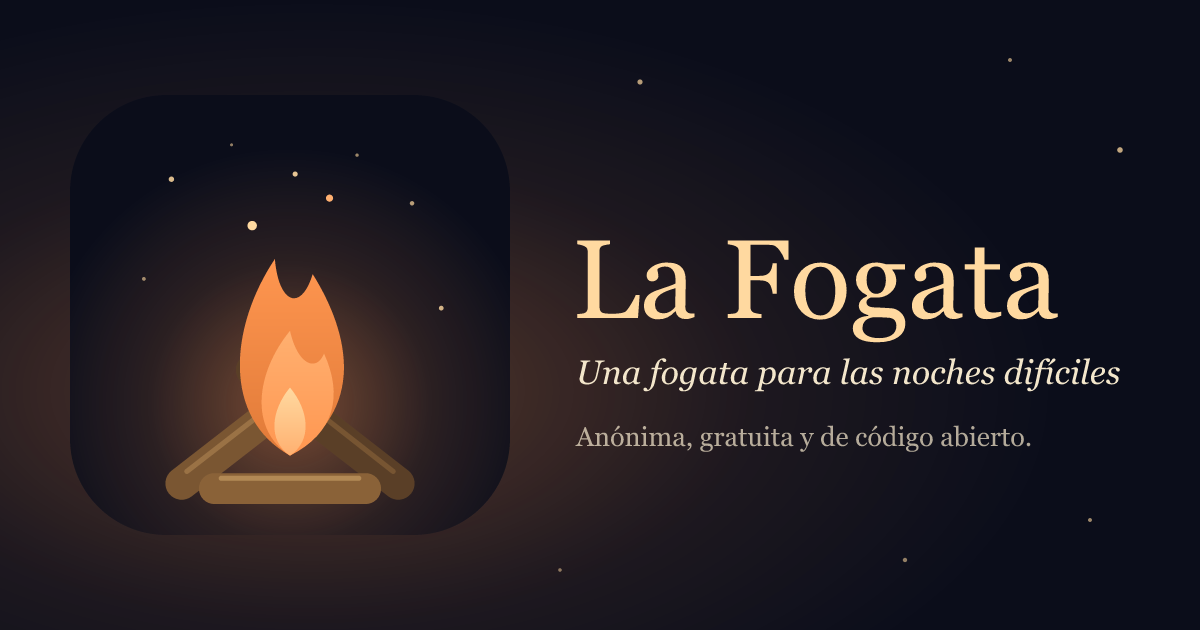
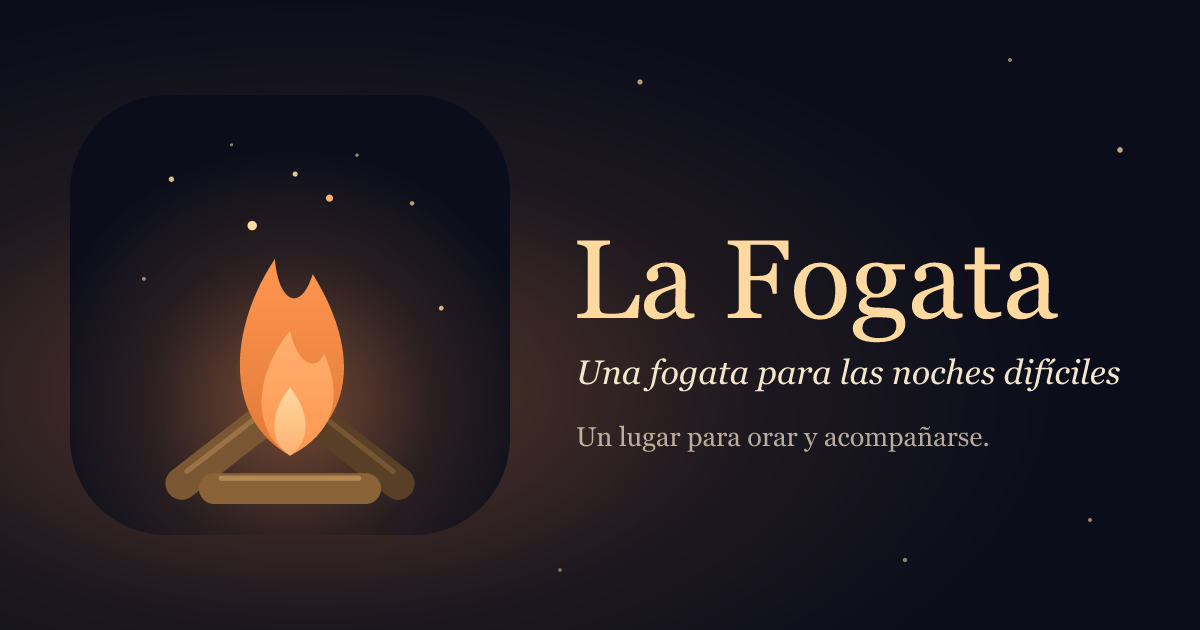
feat: say plainly that La Fogata is a place to pray and to keep company (#46)
The rule that kept the purpose unspoken is dropped: the tutorial, the README,
the descriptions and the picture shown when the link is shared now say what La
Fogata is for. It is a place to pray, for your petitions or for others', or
simply to be present: to accompany, to be here, to take heart from other
people's petitions and from the answers they receive. Praying is an
invitation, never a requirement, and everyone is welcome whatever they
believe. The symbols (the three logs and the rest) stay unexplained.

- tutorial: opens with the purpose and a welcome to all, and speaks of prayer
  where it happens (the burden as a prayer let go, the petition as your
  prayer, praying for the stars still waiting, the fish as a prayer for
  someone); the distant fires move to the step on wood
- README (es, en), the site's description and the shared-link picture, and the
  first section of the terms say it too
- CLAUDE.md (Vision) and the vision-guardian agent follow: say it clearly,
  never preach, never explain the symbols; the tutorial's tests now guard that
  it says it, that it invites and never demands, and that nothing is explained

Changed region(s): [[0.4625, 0.6635, 0.8633, 0.7238]]

diff --git a/apps/web/src/i18n/es.ts b/apps/web/src/i18n/es.ts
@@ -3,7 +3,7 @@ export const es = {
   meta: {
     title: "La Fogata",
     description:
-      "Una fogata anónima y gratuita para las noches difíciles. Echa leña, entrega lo que te pesa y deja una petición que se vuelve estrella. Sin chat, sin perfiles.",
+      "Una fogata anónima y gratuita para orar y acompañarse en las noches difíciles. Echa leña, entrega lo que te pesa y deja una petición que se vuelve estrella. Sin chat, sin perfiles.",
   },
   scene: {
     ariaLabel: "Una fogata de noche con personas sentadas alrededor.",
@@ -215,31 +215,31 @@ export const es = {
     steps: {
       forest: {
         title: "¡Bienvenidos!",
-        body: "Esto es un fuego en el bosque, de noche. Aquí no se habla: se acompaña. Quienes se sientan contigo son personajes, sin nombre ni rostro. Y si ves otra fogata brillando a lo lejos entre los árboles, es porque hay más personas en el bosque.",
+        body: "La Fogata es un lugar para orar y para acompañarse. Entra a orar por tus peticiones, o simplemente quédate: estar presente, acompañar y animarte con lo que otros piden y con las respuestas que reciben también es parte de esto. Todos son bienvenidos, creas lo que creas.",
       },
       wood: {
         title: "Echa leña",
-        body: "Toca el botón del centro y tu personaje lanza un tronco. El fuego crece, se va apagando solo, y todos los que están contigo ven cuando alguien echa leña.",
+        body: "Toca el botón del centro y tu personaje lanza un tronco: es tu manera de decir «aquí estoy». El fuego crece y se va apagando solo, y todos los que están contigo lo ven. Si ves otra fogata brillando a lo lejos entre los árboles, es porque hay más personas en el bosque.",
       },
       burden: {
         title: "Entrega una carga",
-        body: "Escribe lo que te pesa y entrégaselo al fuego: se quema. Lo que escribes nunca sale de tu navegador, ni se envía ni se guarda. Los demás ven a tu personaje llevarla a las brasas, pero nunca lo que dice.",
+        body: "Escribe lo que te pesa y entrégaselo al fuego, como una oración que se suelta: se quema. Lo que escribes nunca sale de tu navegador, ni se envía ni se guarda. Los demás ven a tu personaje llevarla a las brasas, pero nunca lo que dice.",
       },
       petition: {
         title: "Deja una petición",
-        body: "Cuéntale al cielo lo que esperas: tu petición sube con el humo y se vuelve una estrella. Puedes dejar todas las que quieras.",
+        body: "Cuéntale al cielo lo que esperas: tu petición sube con el humo y se vuelve una estrella. Es tu oración, a la vista de quienes pasan por la fogata y sin tu nombre. Puedes dejar todas las que quieras.",
       },
       sky: {
         title: "Tu cielo",
-        body: "El cielo está hecho de las peticiones de todas las personas que han pasado por la fogata. Las estrellas que titilan son peticiones ya respondidas: están ahí para darte ánimo. Las que brillan quietas todavía esperan una respuesta.",
+        body: "El cielo está hecho de las peticiones de todas las personas que han pasado por la fogata. Las estrellas que titilan son peticiones ya respondidas: están ahí para darte ánimo y recordarte que vale la pena esperar. Las que brillan quietas todavía esperan una respuesta: puedes orar por ellas.",
       },
       answered: {
         title: "Cuando se cumple",
-        body: "Si lo que pediste se cumple, vuelve, toca tu estrella y márcala como respondida. Cuenta cómo ocurrió.",
+        body: "Si lo que pediste se cumple, vuelve, toca tu estrella y márcala como respondida. Cuenta cómo ocurrió: tu historia anima a quien aún espera.",
       },
       company: {
-        title: "Acompaña a otros",
-        body: "Toca la estrella de otra persona y luego el pez: le haces saber que estás con ella, sin que sepa quién eres. Si algo no debería estar ahí, la banderita sirve para avisar.",
+        title: "Ora y acompaña",
+        body: "Toca la estrella de otra persona y luego el pez: es tu oración por ella, y le haces saber que alguien está con ella, sin que sepa quién eres. Si algo no debería estar ahí, la banderita sirve para avisar.",
       },
       word: {
         title: "Y unas palabras",
@@ -252,7 +252,7 @@ export const es = {
     intro: "Son pocas reglas, escritas claras. Léelas con calma.",
     company: {
       heading: "Compañía, no ayuda profesional",
-      body: "La Fogata te acompaña, pero no es terapia, ni atención médica, ni un servicio de emergencia, y no reemplaza la ayuda profesional. Si estás en peligro o piensas en hacerte daño, busca ayuda ahora mismo.",
+      body: "La Fogata es un lugar para orar y acompañarse, pero no es terapia, ni atención médica, ni un servicio de emergencia, y no reemplaza la ayuda profesional. Si estás en peligro o piensas en hacerte daño, busca ayuda ahora mismo.",
     },
     age: {
       heading: "Edad",

diff --git a/apps/web/src/i18n/en.ts b/apps/web/src/i18n/en.ts
@@ -5,7 +5,7 @@ export const en = {
   meta: {
     title: "La Fogata",
     description:
-      "A free, anonymous campfire for hard nights. Throw wood, hand over what weighs on you, and leave an ask that becomes a star. No chat, no profiles.",
+      "A free, anonymous campfire to pray and keep company on hard nights. Throw wood, hand over what weighs on you, and leave an ask that becomes a star. No chat, no profiles.",
   },
   scene: {
     ariaLabel: "A campfire at night, with people sitting around it.",
@@ -205,31 +205,31 @@ export const en = {
     steps: {
       forest: {
         title: "Welcome!",
-        body: "This is a fire in the woods, at night. Nobody talks here: you keep each other company. The people who sit with you are characters, with no name or face. And if you see another campfire glowing far off between the trees, it means there are more people in the woods.",
+        body: "La Fogata is a place to pray and to keep company. Come in to pray for your asks, or simply stay: being present, keeping company and taking heart from what others ask and the answers they receive is part of this too. Everyone is welcome, whatever you believe.",
       },
       wood: {
         title: "Throw wood",
-        body: "Tap the button in the middle and your character throws a log. The fire grows and slowly dies down on its own, and everyone sitting with you sees when someone throws wood.",
+        body: "Tap the button in the middle and your character throws a log: your way of saying “I'm here”. The fire grows and slowly dies down on its own, and everyone sitting with you sees it. If you see another campfire glowing far off between the trees, it means there are more people in the woods.",
       },
       burden: {
         title: "Hand over a burden",
-        body: "Write what weighs on you and hand it to the fire: it burns. What you write never leaves your browser: it isn't sent or stored. The others see your character carry it to the embers, but never what it says.",
+        body: "Write what weighs on you and hand it to the fire, like a prayer you let go of: it burns. What you write never leaves your browser: it isn't sent or stored. The others see your character carry it to the embers, but never what it says.",
       },
       petition: {
         title: "Leave an ask",
-        body: "Tell the sky what you hope for: your ask rises with the smoke and becomes a star. Leave as many as you like.",
+        body: "Tell the sky what you hope for: your ask rises with the smoke and becomes a star. It is your prayer, in view of everyone who passes by the fire, and with no name. Leave as many as you like.",
       },
       sky: {
         title: "Your sky",
-        body: "The sky is made of the asks of everyone who has been by the fire. The stars that twinkle are asks that have been answered: they are there to cheer you on. The ones that shine steady are still waiting for an answer.",
+        body: "The sky is made of the asks of everyone who has been by the fire. The stars that twinkle are asks that have been answered: they are there to cheer you on and remind you that it is worth waiting. The ones that shine steady are still waiting for an answer: you can pray for them.",
       },
       answered: {
         title: "When it comes true",
-        body: "If what you asked for comes true, come back, tap your star and mark it as answered. Tell how it happened.",
+        body: "If what you asked for comes true, come back, tap your star and mark it as answered. Tell how it happened: your story encourages someone who is still waiting.",
       },
       company: {
-        title: "Keep others company",
-        body: "Tap someone else's star, then the fish: you let them know you are with them, without them knowing who you are. If something shouldn't be there, the little flag lets you say so.",
+        title: "Pray and keep company",
+        body: "Tap someone else's star, then the fish: it is your prayer for them, and it lets them know someone is with them, without them knowing who you are. If something shouldn't be there, the little flag lets you say so.",
       },
       word: {
         title: "And a few words",
@@ -242,7 +242,7 @@ export const en = {
     intro: "There are only a few rules, written plainly. Take your time.",
     company: {
       heading: "Company, not professional help",
-      body: "La Fogata keeps you company, but it isn't therapy, medical care or an emergency service, and it doesn't replace professional help. If you're in danger or thinking of hurting yourself, please reach out for help right now.",
+      body: "La Fogata is a place to pray and keep company, but it isn't therapy, medical care or an emergency service, and it doesn't replace professional help. If you're in danger or thinking of hurting yourself, please reach out for help right now.",
     },
     age: {
       heading: "Age",

diff --git a/apps/web/src/tutorial/tutorial.test.ts b/apps/web/src/tutorial/tutorial.test.ts
@@ -100,14 +100,50 @@ describe("what the tutorial says", () => {
     expect(text(messages)).not.toMatch(/30|al día|por día|a day|per day|each day|expir|caduc/i);
   });
 
-  // The product is never explicit about where it comes from, and never preaches: the words stay neutral.
+  // La Fogata is a place to pray and to keep company, and the tutorial says so plainly, at the very start.
   it.each([
     ["es", es],
     ["en", en],
-  ])("uses no religious vocabulary in %s", (_language, messages) => {
+  ])(
+    "opens by saying it is a place to pray and to keep company, and that all are welcome, in %s",
+    (_language, messages) => {
+      const welcome = messages.tutorial.steps.forest.body;
+      expect(welcome).toMatch(/orar|pray/i);
+      expect(welcome).toMatch(/acompa[ñn]arse|keep company/i);
+      expect(welcome).toMatch(/presente|present/i);
+      expect(welcome).toMatch(/creas lo que creas|whatever you believe/i);
+    },
+  );
+
+  it.each([
+    ["es", es],
+    ["en", en],
+  ])(
+    "speaks of prayer where it happens: the burden, the petition, the sky and the fish, in %s",
+    (_language, messages) => {
+      for (const step of ["burden", "petition", "sky", "company"] as const) {
+        expect(messages.tutorial.steps[step].body, step).toMatch(/oraci[oó]n|orar|\bora\b|pray/i);
+      }
+    },
+  );
+
+  // Praying is an invitation, never a requirement: being present is enough, and nothing preaches or pressures.
+  it.each([
+    ["es", es],
+    ["en", en],
+  ])("invites and never preaches or demands, in %s", (_language, messages) => {
+    expect(messages.tutorial.steps.forest.body).toMatch(/simplemente|simply/i);
     expect(text(messages)).not.toMatch(
-      /\b(orar|oraci[oó]n|rezar|ruega|dios|se[ñn]or|jes[uú]s|cristo|trinidad|b[ií]blic|santo|pray|prayer|god|lord|jesus|christ|trinity|bible|holy)\b/i,
+      /\b(debes|tienes que|deber[ií]as|est[aá]s obligad|must|you have to|you should|have to)\b/i,
     );
+  });
+
+  // The symbols are never explained.
+  it.each([
+    ["es", es],
+    ["en", en],
+  ])("does not explain the symbols (the three logs, the Trinity), in %s", (_language, messages) => {
+    expect(text(messages)).not.toMatch(/trinidad|tres troncos|three logs|trinity/i);
   });
 
   it.each([

diff --git a/CLAUDE.md b/CLAUDE.md
@@ -1,6 +1,6 @@
 # La Fogata
 
-A nocturnal, anonymous web space where people sit around a campfire in real time. It is not a chat: people throw wood, hand over what weighs on them, and leave petitions that become stars. Built to keep people company on hard nights.
+A nocturnal, anonymous web space where people sit around a campfire in real time. It is not a chat: people throw wood, hand over what weighs on them, and leave petitions that become stars. Built to keep people company on hard nights, and to be a place to pray.
 
 Visual and interaction reference: `docs/prototype/la-fogata.html` (open it in a browser). Match its look and feel.
 
@@ -18,13 +18,17 @@ This file holds the core rules. Area guidance loads on demand from `.claude/rule
   - A petition rises from the fire and becomes a star in one shared sky: up to 2000 characters (a letter; a burden up to 3000, an answer up to 2000), dated with the day it was written and the day it was answered (only the day), moderated before it is shown. There is no limit on how many a person may leave and they do not expire: a star stays until its author returns it to the fire. Ownership is a secret key kept in the browser; no accounts.
   - Other people's stars show no author information, ever. The ichthys is the only response (one counter, no likes, no ranking).
 - Touch the fire for a short verse (TLA es / WEB en, curated list in `apps/web/src/fire/words.ts`). Only the words show, with no number; tapping the words shows where they come from.
-- The first time, after accepting the terms, a short tutorial (`components/tutorial/`, `tutorial/tutorial.ts`) says what La Fogata is and what can be done in it, one step at a time with a small drawing of each; it can be skipped, is remembered (`fogata:tutorial`), and can be opened again from the settings. It stays neutral: no religious vocabulary, no promise of rules that do not exist (a test guards both).
+- The first time, after accepting the terms, a short tutorial (`components/tutorial/`, `tutorial/tutorial.ts`) says what La Fogata is and what can be done in it, one step at a time with a small drawing of each; it can be skipped, is remembered (`fogata:tutorial`), and can be opened again from the settings. It says plainly that La Fogata is a place to pray and to keep company, and that everyone is welcome whatever they believe, and it promises no rules that do not exist (a test guards both).
 - No chat, no direct messages, no profiles, no likes, no streaks.
 - Never simulate fake people in production. When you are alone, the scene shows the stars and any real distant fires, and never says anyone will come.
 
-## Vision (never shown explicitly in the UI)
+## Vision
 
-La Fogata is quietly inspired by Christian faith. It never says so; the meaning lives in symbols for those who look:
+La Fogata is a place to pray and to keep company, and it says so plainly. It is for coming in and praying for your petitions, or for simply being present: accompanying, being here, taking heart from other people's petitions and from the answers they receive. It is inspired by Christian faith, and that is no secret kept from the visitor: the tutorial, the README, the release notes and the descriptions all say what it is for.
+
+Praying is an invitation, never a requirement. Everyone is welcome whatever they believe, and being present is as much a part of La Fogata as praying.
+
+The symbols still live quietly; they are not explained:
 
 - The teepee's three main logs: the Trinity
 - Throwing wood to keep the fire alive: drawing near to God (Leviticus 6:13)
@@ -37,7 +41,7 @@ La Fogata is quietly inspired by Christian faith. It never says so; the meaning 
 - Matthew 7:7: Pídelo (ask and it will be given to you)
 - The shooting star: an answered prayer, and a burden that has burned
 
-Rules: never preach, no religious vocabulary in the default UI, everyone is welcome whatever they believe, Scripture only when the user asks for it.
+Rules: say clearly that it is a place to pray and to keep company; never preach (no sermons, no pressure, no judging, no assuming belief); everyone is welcome whatever they believe; do not explain the symbols; Scripture comes as the word from the fire, when the person touches it.
 
 ## Safety (non-negotiable)
 

diff --git a/README.en.md b/README.en.md
@@ -13,17 +13,19 @@
 
 There are nights when what weighs on you doesn't fit into a conversation. You don't want to explain it to anyone, but you don't want to be alone either. La Fogata is a place for those nights.
 
-You sit by a fire, at night, in the woods. Other people sit with you, always anonymous: they are animals, not profiles. Nobody talks. They keep each other company.
+You sit by a fire, at night, in the woods. Other people sit with you, always anonymous: they are characters, not profiles. Nobody talks. They keep each other company.
+
+**La Fogata is a place to pray and to keep company.** Come in to pray for your asks, or simply be present: keep company, stay here, take heart from what others ask and from the answers they receive. Praying is an invitation, never an obligation, and everyone is welcome, whatever you believe.
 
 ## What you can do
 
 There are only three gestures, and that is on purpose.
 
 - **Throw wood.** The fire grows with every log and slowly dies down on its own. Everyone sitting with you sees it.
-- **Hand over a burden.** You write what weighs on you and the fire burns it. What you write never leaves your browser: it isn't sent, it isn't stored, and nobody reads it, not even me.
-- **Leave an ask.** It rises with the smoke and becomes a star in the sky. Leave as many as you like. When it comes true, you go back to your star and tell how it happened.
+- **Hand over a burden.** You write what weighs on you and the fire burns it, like a prayer you let go of. What you write never leaves your browser: it isn't sent, it isn't stored, and nobody reads it, not even me.
+- **Leave an ask.** It is your prayer: it rises with the smoke and becomes a star in the sky. Leave as many as you like. When it comes true, you go back to your star and tell how it happened, and your story encourages someone who is still waiting.
 
-And two more things: touch the fire to receive a few short words, and touch someone else's star to tell them, with a fish, that you are with them. Without knowing who they are. Without them knowing who you are.
+And two more things: touch the fire to receive a few short words, and touch someone else's star to pray for them and tell them, with a fish, that you are with them. Without knowing who they are. Without them knowing who you are.
 
 ## What La Fogata will never have
 
@@ -40,7 +42,7 @@ It is not a social network and doesn't want to be one. Nothing in it asks you to
 
 ## Why it exists
 
-I made it because I believe keeping someone company doesn't need pretty words or solutions: sometimes it is enough to know you are not the only person awake.
+I made it so there would be a place to pray without having to explain yourself to anyone, and where nobody is alone while they do. Sometimes pretty words and solutions aren't needed: it is enough to know you are not the only person awake, and that someone else is there with you.
 
 It doesn't replace a professional or the people who love you. If you are going through something very hard, please reach out: [findahelpline.com](https://findahelpline.com) lists support lines in almost every country.
 

diff --git a/README.md b/README.md
@@ -13,17 +13,19 @@
 
 Hay noches en que lo que pesa no cabe en una conversación. No quieres explicarle nada a nadie, pero tampoco quieres estar solo. La Fogata es un lugar para esas noches.
 
-Te sientas junto a un fuego, de noche, en el bosque. Hay otras personas sentadas contigo, siempre de forma anónima: son animales, no perfiles. Nadie habla. Se acompañan.
+Te sientas junto a un fuego, de noche, en el bosque. Hay otras personas sentadas contigo, siempre de forma anónima: son personajes, no perfiles. Nadie habla. Se acompañan.
+
+**La Fogata es un lugar para orar y para acompañarse.** Puedes entrar a orar por tus peticiones, o simplemente estar presente: acompañar, quedarte aquí, animarte con lo que otros piden y con las respuestas que reciben. Orar es una invitación, nunca una obligación, y todos son bienvenidos, creas lo que creas.
 
 ## Qué puedes hacer
 
 Solo hay tres gestos, y a propósito no hay más.
 
 - **Echar leña.** El fuego crece con cada tronco y se va apagando solo. Todos los que están contigo lo ven.
-- **Entregar una carga.** Escribes lo que te pesa y el fuego lo quema. Lo que escribes nunca sale de tu navegador: no se envía, no se guarda y nadie lo lee, ni siquiera yo.
-- **Dejar una petición.** Se eleva con el humo y se vuelve una estrella en el cielo. Puedes dejar las que quieras. Cuando se cumple, vuelves a tu estrella y lo cuentas.
+- **Entregar una carga.** Escribes lo que te pesa y el fuego lo quema, como una oración que se suelta. Lo que escribes nunca sale de tu navegador: no se envía, no se guarda y nadie lo lee, ni siquiera yo.
+- **Dejar una petición.** Es tu oración: se eleva con el humo y se vuelve una estrella en el cielo. Puedes dejar las que quieras. Cuando se cumple, vuelves a tu estrella y lo cuentas, y tu historia anima a quien todavía espera.
 
-Y dos cosas más: tocar el fuego para recibir unas palabras breves, y tocar la estrella de otra persona para decirle, con un pez, que estás con ella. Sin saber quién es. Ella sin saber quién eres tú.
+Y dos cosas más: tocar el fuego para recibir unas palabras breves, y tocar la estrella de otra persona para orar por ella y decirle, con un pez, que estás con ella. Sin saber quién es. Ella sin saber quién eres tú.
 
 ## Lo que La Fogata nunca va a tener
 
@@ -40,7 +42,7 @@ No es una red social y no quiere serlo. Nada en ella te pide volver: está ahí 
 
 ## Por qué existe
 
-La hice porque creo que acompañarse no necesita palabras bonitas ni soluciones: a veces basta con saber que no eres la única persona despierta.
+La hice para que hubiera un lugar donde orar sin tener que explicarle nada a nadie, y donde nadie esté solo mientras lo hace. A veces no hacen falta palabras bonitas ni soluciones: basta con saber que no eres la única persona despierta, y que alguien más está ahí contigo.
 
 No reemplaza a un profesional ni a la gente que te quiere. Si estás pasando por algo muy duro, busca ayuda: en [findahelpline.com](https://findahelpline.com) hay líneas de apoyo en casi cualquier país.
 

diff --git a/.claude/agents/vision-guardian.md b/.claude/agents/vision-guardian.md
@@ -8,7 +8,7 @@ You review a change against the Vision and Product sections of CLAUDE.md. You ne
 
 Check, in the diff or files you are given:
 
-- No religious vocabulary in default UI copy (God, Lord, prayer, pray, Jesus, bless, Bible, church, etc.). Scripture appears only when the visitor asks for it (the verse reference). In English, never the word "petition" (use "Ask" and "star").
+- La Fogata says plainly that it is a place to pray and to keep company; flag copy that hides that where the product explains itself (the tutorial, the README, the descriptions). Praying is an invitation, never a requirement: flag copy that preaches, pressures, judges or assumes the visitor believes, and anything that makes someone who only wants to be present feel out of place. The symbols (the three logs and the rest in the Vision) are never explained. Scripture comes as the word from the fire, when the person touches it. In English, never the word "petition" (use "Ask" and "star").
 - No likes, ranking, streaks, profiles, chat or direct messages; the ichthys is the only response and has one counter.
 - Never fake people in production: no simulated arrivals, no invented activity, no promise that someone will come. There is no demo mode: no sample petitions, no simulated people, no dev flags in the app.
 - Other people's stars reveal nothing about the author.
